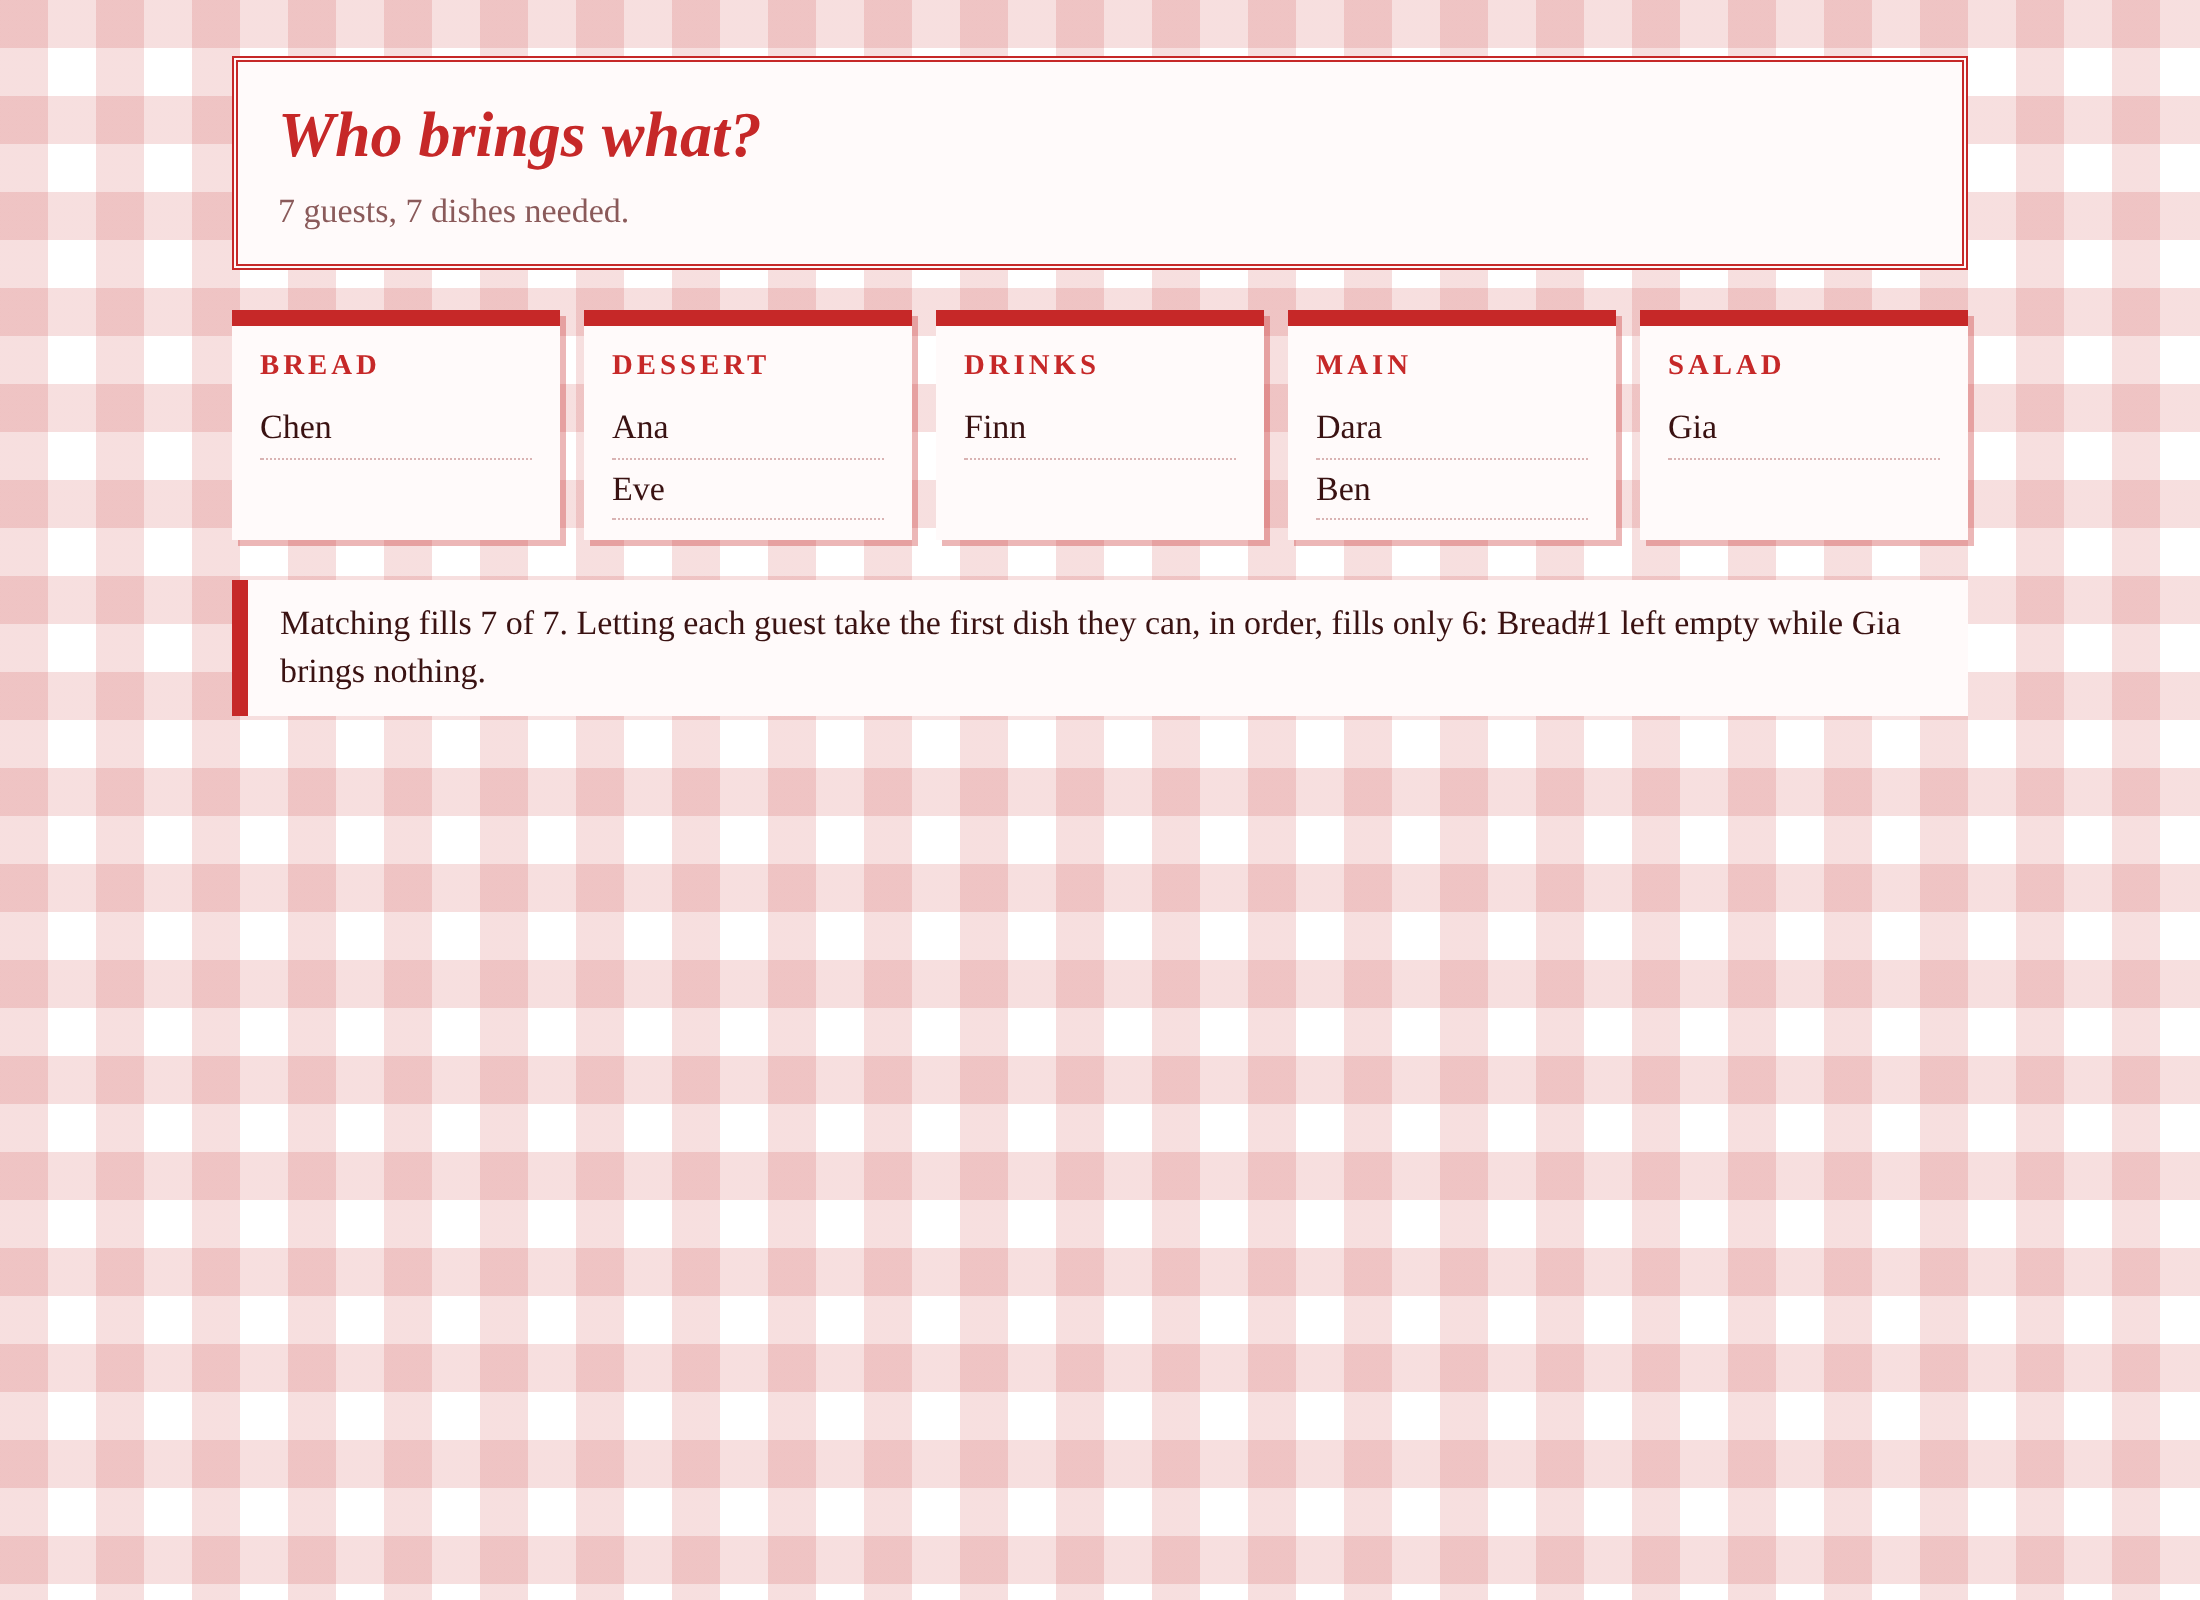
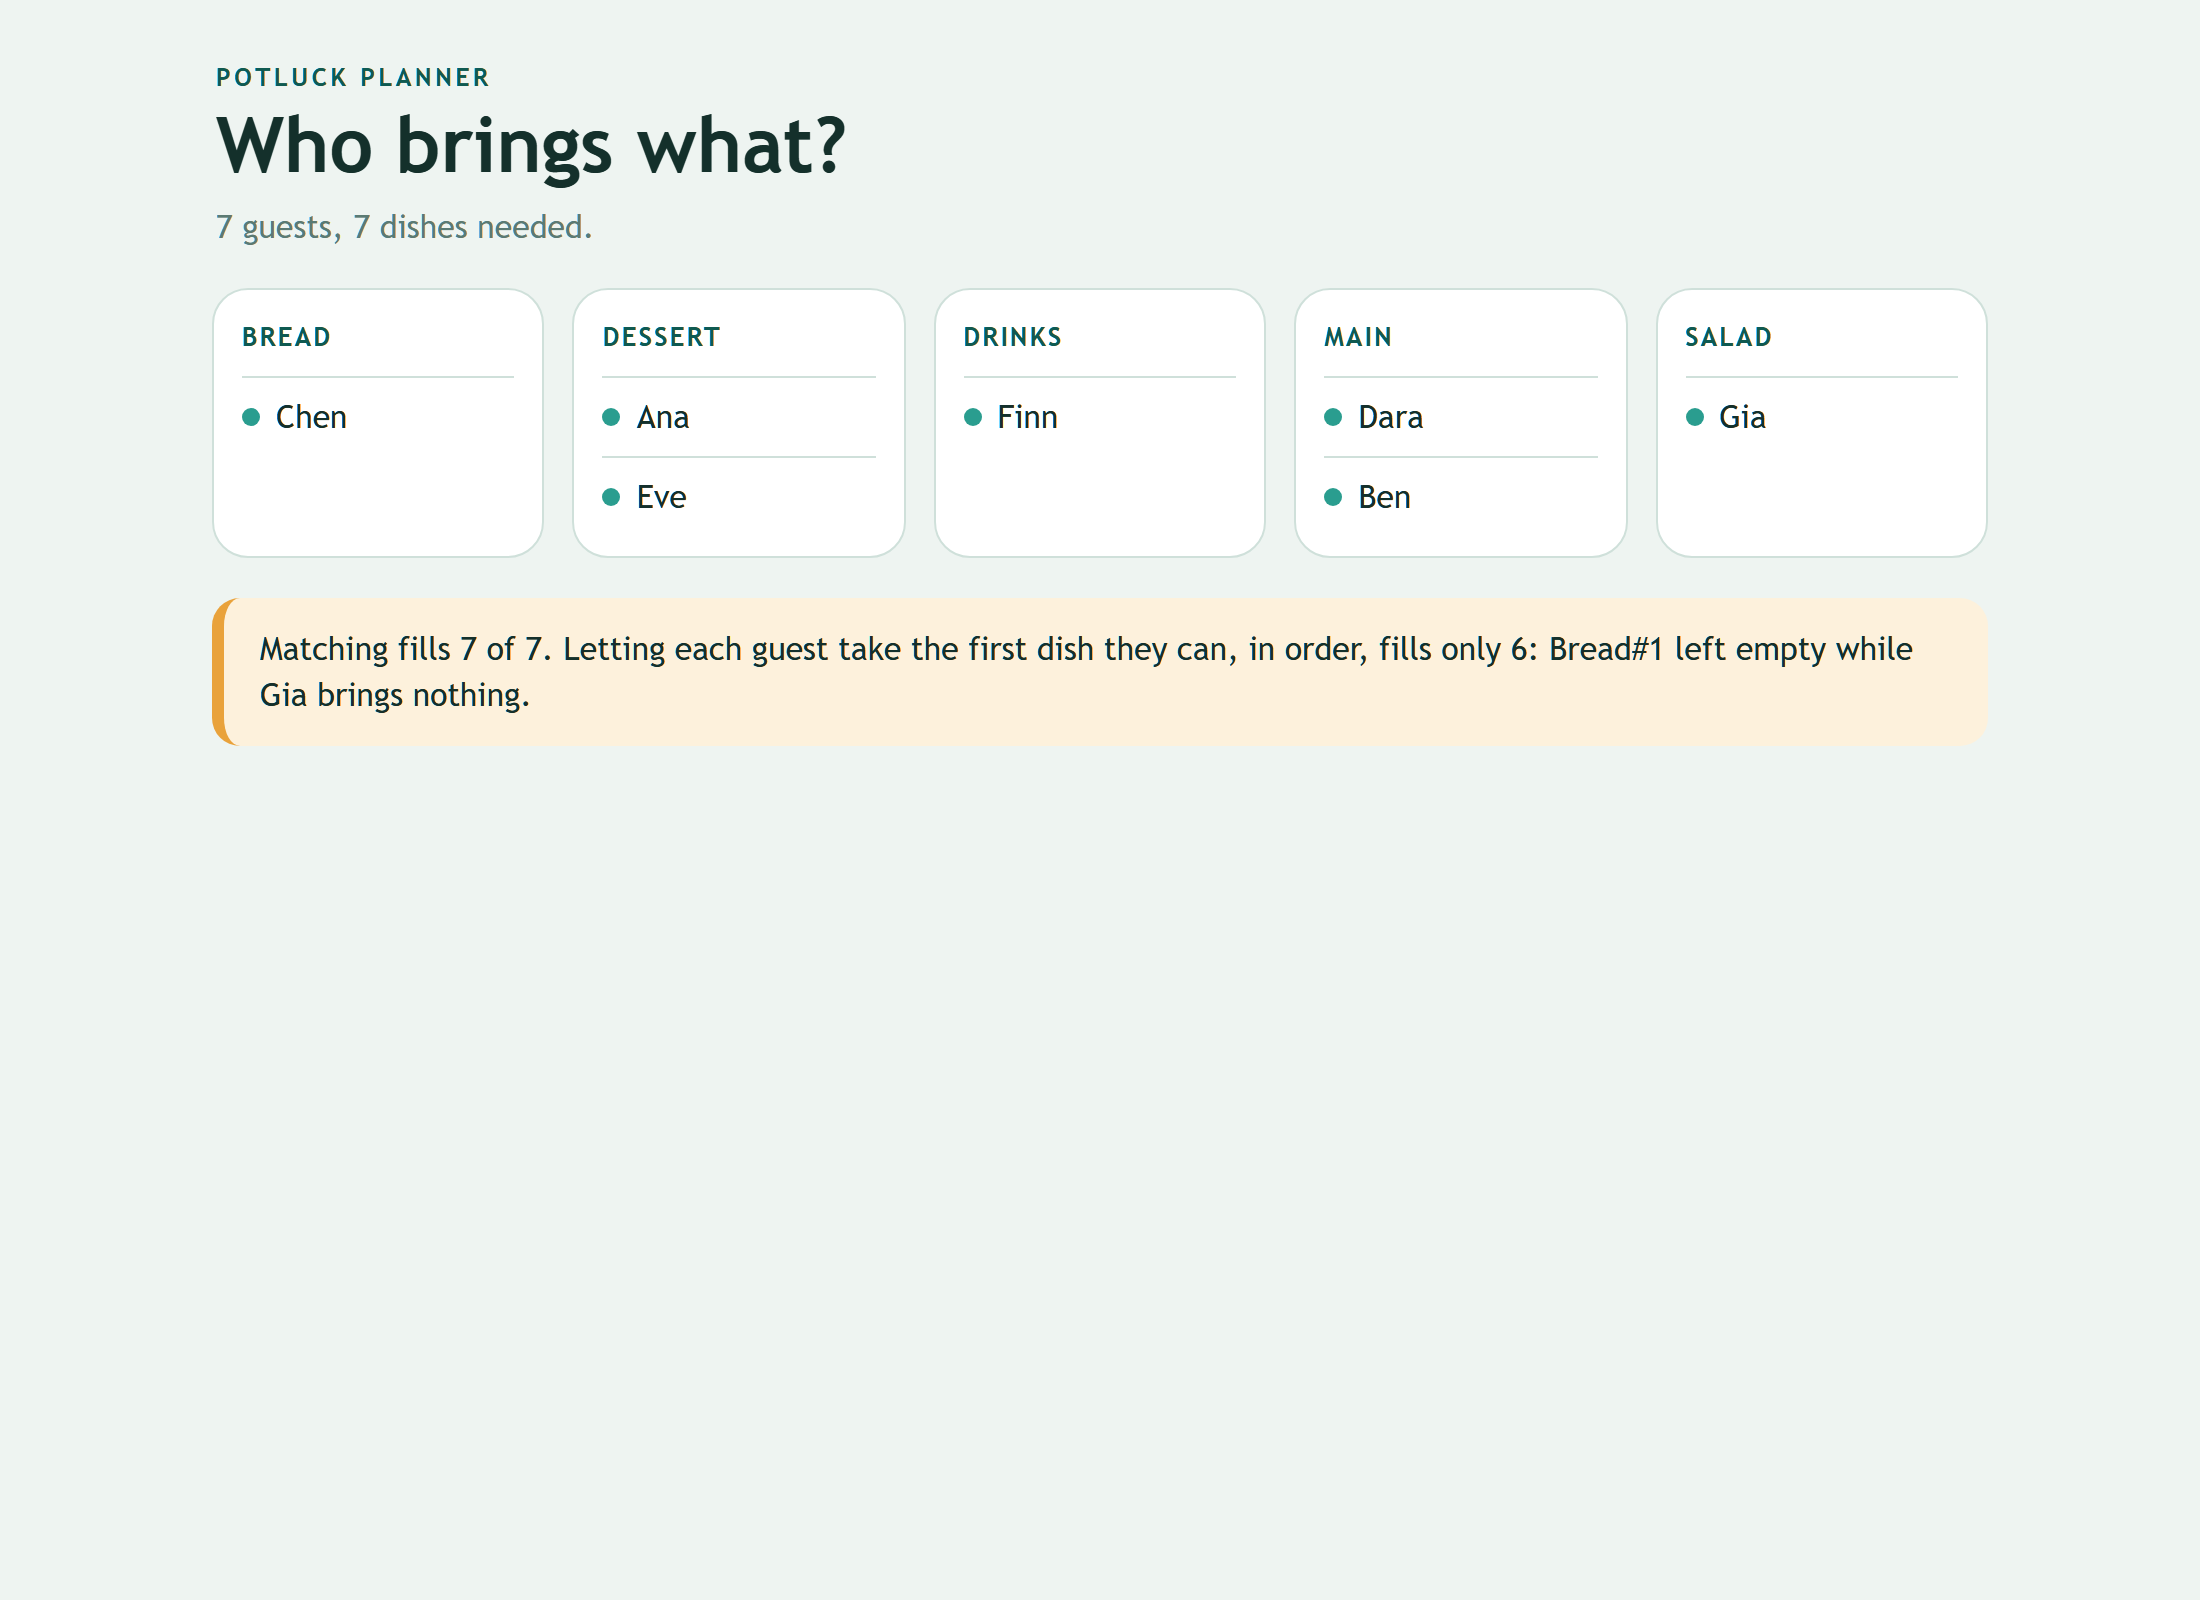
Redesign frontend: potluck-dish-matcher

diff --git a/static/index.html b/static/index.html
@@ -2,24 +2,47 @@
 <html lang="en"><head><meta charset="utf-8"><meta name="viewport" content="width=device-width,initial-scale=1">
 <title>Potluck Dish Matcher</title>
 <style>
-:root{--red:#c62828;--ink:#3a1212;--paper:#fffafa;--mute:#8a5a5a}
-*{box-sizing:border-box}body{margin:0;color:var(--ink);font:17px/1.4 "Baskerville","Palatino Linotype",serif;
-background-color:#fff;background-image:linear-gradient(90deg,#c6282826 50%,transparent 50%),linear-gradient(#c6282826 50%,transparent 50%);background-size:48px 48px}
-main{max-width:900px;margin:0 auto;padding:28px 16px}.top{background:var(--paper);padding:14px 20px;border:3px double var(--red);margin-bottom:20px}
-h1{margin:0;font-size:2rem;color:var(--red);font-style:italic}p{margin:4px 0 0;color:var(--mute)}
-.cols{display:grid;grid-template-columns:repeat(auto-fit,minmax(150px,1fr));gap:12px}
-.col{background:var(--paper);border-top:8px solid var(--red);padding:10px 14px;box-shadow:3px 3px 0 #c6282855}.col h3{margin:0 0 6px;font-size:.9rem;text-transform:uppercase;letter-spacing:2px;color:var(--red)}
-.col div{padding:3px 0;border-bottom:1px dotted #d9b3b3}.col .gap{color:var(--red);font-style:italic}
-.cmp{margin-top:20px;background:var(--paper);border-left:8px solid var(--red);padding:10px 16px}
+:root{--bg:#eef4f1;--surface:#ffffff;--ink:#14302b;--accent:#2a9d8f;--accent-ink:#0f5a51;--warn:#e9a23b;--warn-bg:#fdf1dc;--mute:#5b7a73;--line:#cfe0da;color-scheme:light}
+@media (prefers-color-scheme: dark){:root:not([data-theme="light"]){--bg:#0f1d1b;--surface:#172b28;--ink:#e3f2ee;--accent:#4fc3b4;--accent-ink:#8fe3d7;--warn:#f2b65a;--warn-bg:#3a2b12;--mute:#9dbdb5;--line:#27433e;color-scheme:dark}}
+:root[data-theme="dark"]{--bg:#0f1d1b;--surface:#172b28;--ink:#e3f2ee;--accent:#4fc3b4;--accent-ink:#8fe3d7;--warn:#f2b65a;--warn-bg:#3a2b12;--mute:#9dbdb5;--line:#27433e;color-scheme:dark}
+*{box-sizing:border-box}
+html,body{background:var(--bg)}
+body{margin:0;color:var(--ink);font:16px/1.45 "Trebuchet MS","Segoe UI",system-ui,sans-serif}
+main{max-width:920px;margin:0 auto;padding:24px 16px 40px}
+.hero{padding:6px 2px 18px}
+.eyebrow{margin:0 0 4px;font-size:.78rem;font-weight:700;letter-spacing:.14em;text-transform:uppercase;color:var(--accent-ink)}
+h1{margin:0;font-size:clamp(1.8rem,6vw,2.4rem);line-height:1.1;font-weight:800}
+#sub{margin:8px 0 0;color:var(--mute)}
+.cols{display:grid;grid-template-columns:repeat(auto-fill,minmax(160px,1fr));gap:14px}
+.col{background:var(--surface);border:1px solid var(--line);border-radius:18px;padding:14px 14px 10px}
+.col h3{margin:0 0 10px;font-size:.82rem;font-weight:700;letter-spacing:.08em;text-transform:uppercase;color:var(--accent-ink)}
+.col div{display:flex;align-items:center;gap:8px;padding:8px 0;border-top:1px solid var(--line);overflow-wrap:anywhere}
+.col div::before{content:"";flex:0 0 auto;width:9px;height:9px;border-radius:50%;background:var(--accent)}
+.col div.gap{color:var(--mute);font-style:italic}
+.col div.gap::before{background:transparent;border:2px dashed var(--warn)}
+.cmp{margin-top:20px;background:var(--warn-bg);color:var(--ink);border-radius:14px;padding:14px 18px;border-left:6px solid var(--warn)}
 </style></head><body><main>
-<div class="top"><h1>Who brings what?</h1><p id="sub"></p></div>
-<div class="cols" id="cols"></div><div class="cmp" id="cmp"></div></main>
+<header class="hero"><p class="eyebrow">Potluck planner</p><h1>Who brings what?</h1><p id="sub"></p></header>
+<section class="cols" id="cols" aria-live="polite"></section>
+<section class="cmp" id="cmp"></section>
+</main>
 <script>
 (async()=>{
   const s=await (await fetch("/sample")).json();
   const r=await (await fetch("/match",{method:"POST",headers:{"Content-Type":"application/json"},body:JSON.stringify({needs:s.needs,guests:s.guests})})).json();
   document.getElementById("sub").textContent=`${s.guests.length} guests, ${r.best.slots} dishes needed.`;
-  document.getElementById("cols").innerHTML=Object.entries(r.best.assignment).map(([c,n])=>`<div class="col"><h3>${c}</h3>${n.map(x=>`<div class="${x?"":"gap"}">${x||"nobody yet"}</div>`).join("")}</div>`).join("");
+  const cols=document.getElementById("cols");
+  for(const [c,n] of Object.entries(r.best.assignment)){
+    const col=document.createElement("div");col.className="col";
+    const h=document.createElement("h3");h.textContent=c;col.appendChild(h);
+    for(const x of n){
+      const row=document.createElement("div");
+      if(!x)row.className="gap";
+      row.textContent=x||"nobody yet";
+      col.appendChild(row);
+    }
+    cols.appendChild(col);
+  }
   const f=r.first_come;
   document.getElementById("cmp").textContent=`Matching fills ${r.best.filled} of ${r.best.slots}. Letting each guest take the first dish they can, in order, fills only ${f.filled}: ${f.missing.join(", ")||"none"} left empty while ${f.unassigned_guests.join(", ")||"nobody"} brings nothing.`;
 })();
